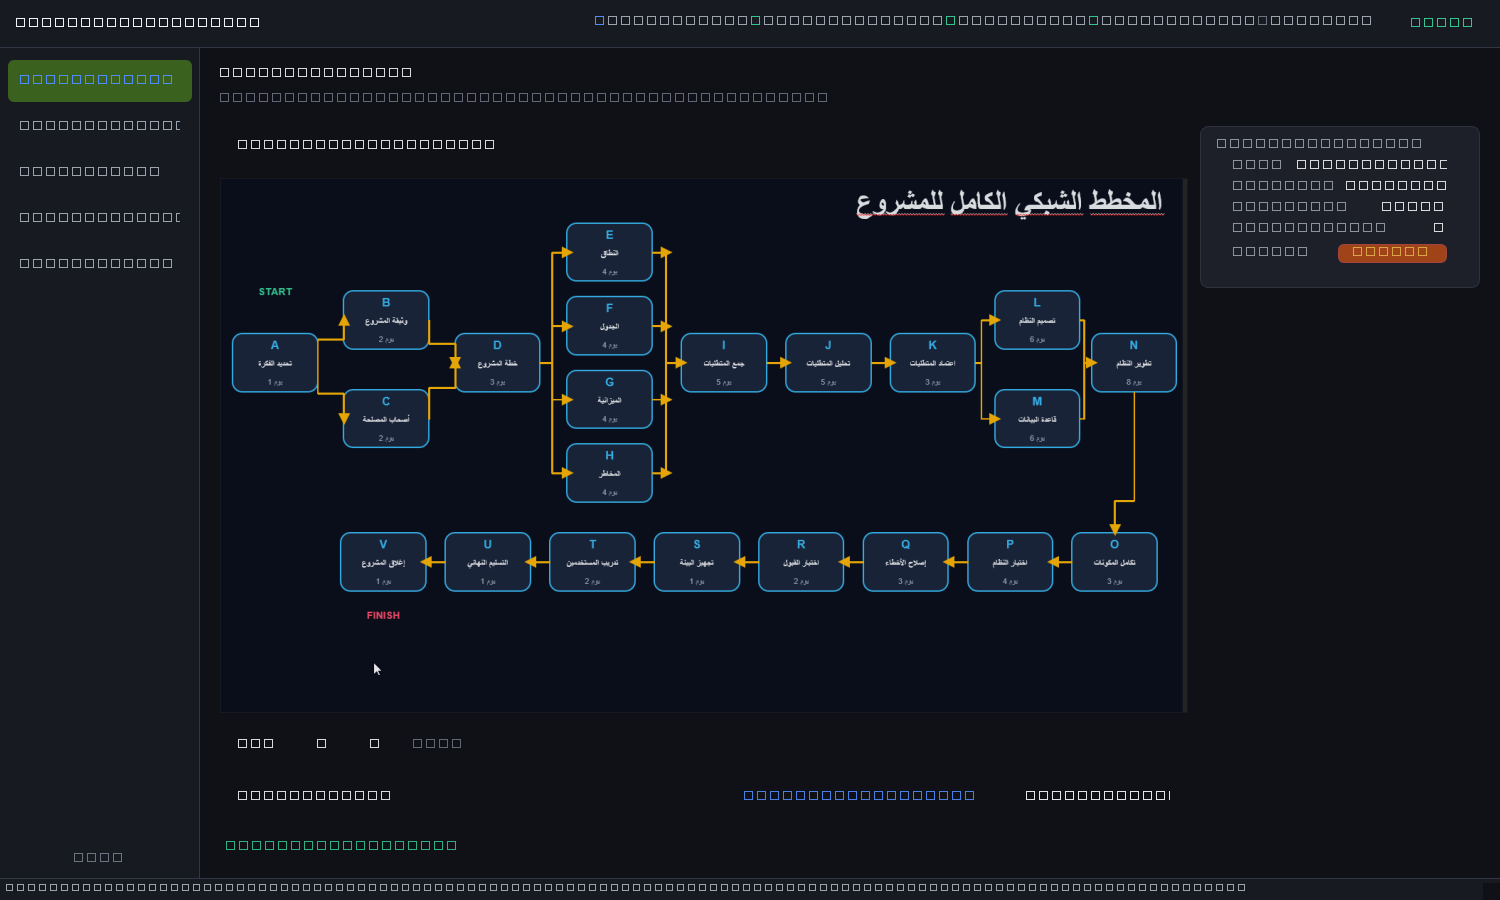
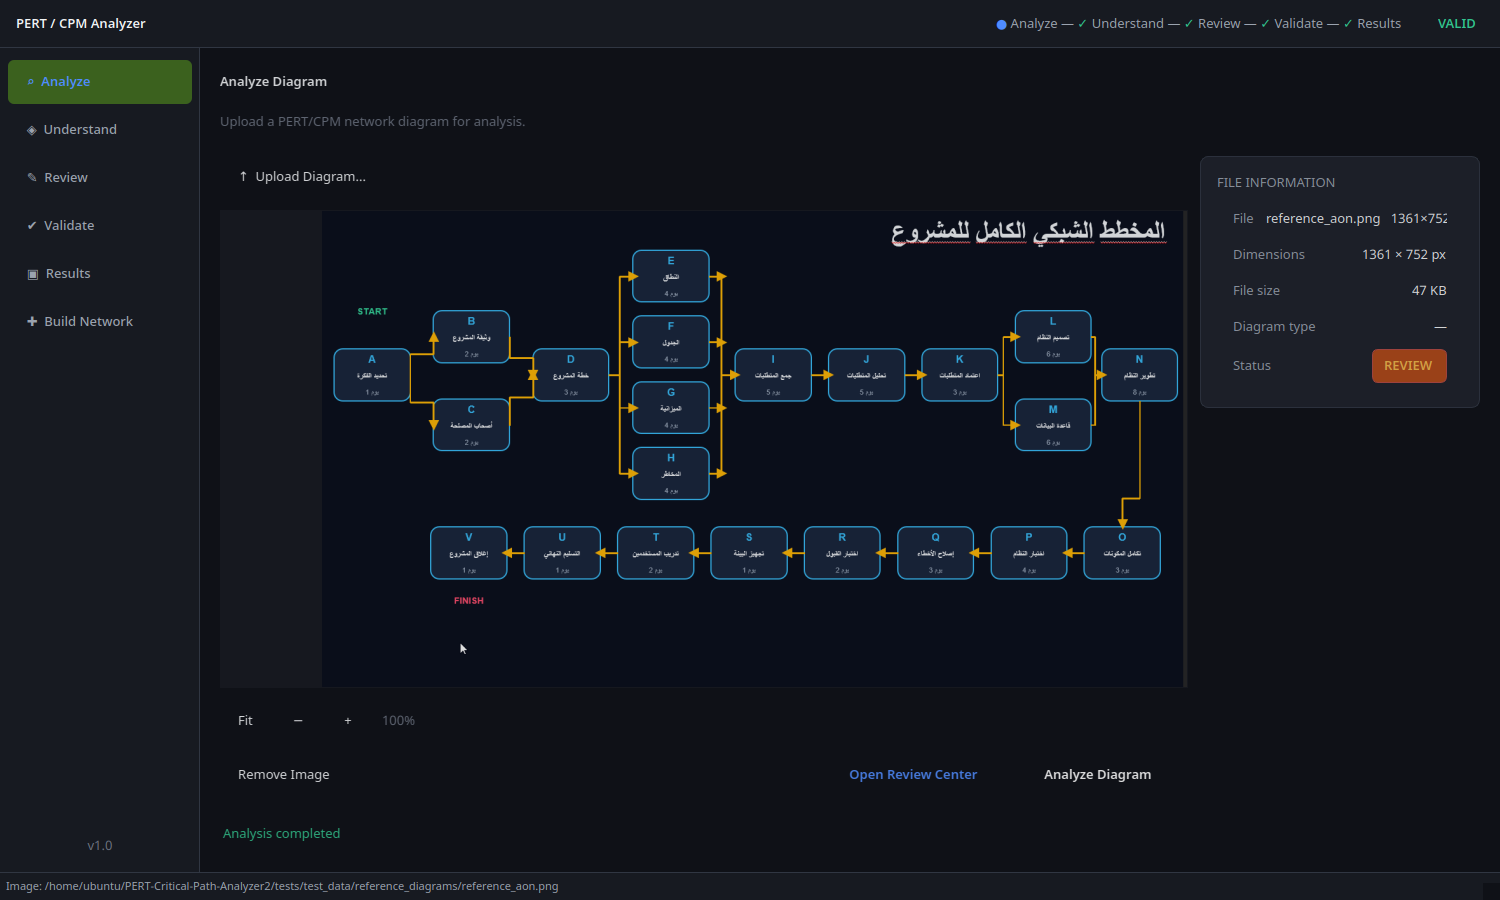
Stabilize analysis pipeline and polish results UX

diff --git a/scripts/capture_screenshots.py b/scripts/capture_screenshots.py
@@ -14,16 +14,15 @@ os.environ.setdefault("QT_QPA_PLATFORM", "offscreen")
 _ROOT = Path(__file__).resolve().parents[1]
 sys.path.insert(0, str(_ROOT))
 
-from PySide6.QtCore import Qt
 from PySide6.QtWidgets import QApplication
 
 from pert_analyzer.gui.main_window import MainWindow
 from pert_analyzer.gui.navigation import NavDestination
+from pert_analyzer.gui.session import AppState
 from pert_analyzer.gui.themes.style import apply_theme
 from tests.helpers.reference_gold import (
     REFERENCE_AON,
     build_corrected_session,
-    load_gold,
     run_reference_analysis,
 )
 
@@ -43,7 +42,6 @@ def _set_session_data(window: MainWindow) -> None:
     global _workflow
     print("Running reference analysis...")
     pipeline_result = run_reference_analysis()
-    gold = load_gold()
     session = build_corrected_session(pipeline_result, source_image_id=REFERENCE_AON.name)
 
     from pert_analyzer.pipeline.review_api import ReviewWorkflow
@@ -56,7 +54,13 @@ def _set_session_data(window: MainWindow) -> None:
     gui_session.reviews_dirty = False
 
     candidate = _workflow.apply()
-    gui_session.candidate = candidate
+    gui_session.complete_apply(candidate)
+    cpm_result = _workflow.run_cpm()
+    candidate.cpm = cpm_result
+    candidate.pure_critical_paths = [
+        list(path) for path in (getattr(cpm_result, "critical_paths", None) or [])
+    ]
+    gui_session.state = AppState.RESULTS_AVAILABLE
 
     window._refresh_pages()
     window._update_workflow_indicator()
@@ -73,6 +77,10 @@ def main() -> None:
     apply_theme(app)
     window = MainWindow()
     window.resize(1500, 900)
+    # Load the preview before injecting the completed session.  AnalysisPage
+    # emits image_selected_signal from load_image, which intentionally resets
+    # a live user session; doing it first keeps these screenshots truthful.
+    window._analysis_page.load_image(str(REFERENCE_AON))
 
     print("Setting up reference AON session...")
     _set_session_data(window)
@@ -84,7 +92,6 @@ def main() -> None:
     window._on_nav(NavDestination.ANALYZE)
     app.processEvents()
     analyze_page = window._analysis_page
-    analyze_page.load_image(str(REFERENCE_AON))
     app.processEvents()
     gui_sess = window._session
     summary = getattr(gui_sess, "review_summary", None) or {}

diff --git a/pert_analyzer/gui/pages/results_page.py b/pert_analyzer/gui/pages/results_page.py
@@ -286,6 +286,13 @@ class ResultsPage(QWidget):
         )
         layout.addWidget(self._status_banner)
 
+        self._provenance_label = QLabel("")
+        self._provenance_label.setFont(QFont(*MUTED_FONT))
+        self._provenance_label.setStyleSheet(
+            f"color: {TEXT_MUTED}; padding: 2px 4px;"
+        )
+        layout.addWidget(self._provenance_label)
+
         top = QHBoxLayout()
         top.setSpacing(10)
         header_stack = QVBoxLayout()
@@ -388,6 +395,7 @@ class ResultsPage(QWidget):
         }[reason]
         self._empty_label.setText(message)
         self._empty_label.show()
+        self._provenance_label.hide()
         self._set_calculate_visible(reason == RESULT_UNAVAILABLE)
         self._calculate_btn.setEnabled(reason == RESULT_UNAVAILABLE and not self._busy)
         self._set_readiness(reason)
@@ -518,6 +526,10 @@ class ResultsPage(QWidget):
 
         # Update status banner
         self._status_banner.show()
+        self._provenance_label.setText(
+            "Authoritative result  ·  reviewed graph  ·  CPM values are not recomputed in the UI"
+        )
+        self._provenance_label.show()
         self._status_icon.setText("\u2713")
         self._status_icon.setStyleSheet(f"color: {SUCCESS};")
         self._status_label.setText("FINAL RESULTS")

diff --git a/pert_analyzer/gui/results/network.py b/pert_analyzer/gui/results/network.py
@@ -36,6 +36,7 @@ from PySide6.QtWidgets import (
 
 from pert_analyzer.gui.results import layout as network_layout
 from pert_analyzer.gui.themes.style import NETWORK_COLORS
+from pert_analyzer.gui.themes.typography import FONT_FAMILY
 
 MIN_ZOOM = 0.2
 MAX_ZOOM = 5.0
@@ -133,7 +134,7 @@ class ActivityNodeItem(QGraphicsObject):
         text_y = self._rect.y() + 14
 
         painter.setPen(QPen(_color("node_text")))
-        title_font = QFont("Segoe UI", 10, QFont.Weight.Bold)
+        title_font = QFont(FONT_FAMILY, 10, QFont.Weight.Bold)
         painter.setFont(title_font)
         painter.drawText(
             QRectF(x + 6, text_y - 10, width - 12, 16),
@@ -141,7 +142,7 @@ class ActivityNodeItem(QGraphicsObject):
             self.activity_id,
         )
 
-        body_font = QFont("Segoe UI", 8)
+        body_font = QFont(FONT_FAMILY, 8)
         painter.setFont(body_font)
         painter.setPen(QPen(_color("node_text_muted")))
         line_y = self._rect.y() + 26

diff --git a/pert_analyzer/gui/themes/typography.py b/pert_analyzer/gui/themes/typography.py
@@ -10,7 +10,11 @@ from __future__ import annotations
 from PySide6.QtGui import QFont
 
 # ── Family ─────────────────────────────────────────────────────────
-FONT_FAMILY = "Segoe UI"
+# Noto Sans Arabic is available on Linux and supports Arabic shaping as well
+# as Latin text. Keeping one family here also makes QFont-based widgets and
+# the application-wide QSS render consistently instead of falling back to
+# Segoe UI (which is commonly unavailable outside Windows).
+FONT_FAMILY = "Noto Sans Arabic"
 
 # ── Named tuples: (family, size_px, weight) ────────────────────────
 DISPLAY_FONT = (FONT_FAMILY, 28, QFont.Weight.Bold)

diff --git a/pert_analyzer/gui/results/overview.py b/pert_analyzer/gui/results/overview.py
@@ -46,9 +46,12 @@ class KpiCard(QFrame):
     def __init__(self, title: str, parent: QWidget | None = None):
         super().__init__(parent)
         self.setFrameShape(QFrame.Shape.NoFrame)
+        self.setObjectName("kpiCard")
         self.setStyleSheet(
-            f"background-color: {SURFACE};"
-            f" border: 1px solid {BORDER}; border-radius: {RADIUS_LG}px;"
+            f"QFrame#kpiCard {{ background-color: {SURFACE};"
+            f" border: 1px solid {BORDER}; border-radius: {RADIUS_LG}px; }}"
+            f"QFrame#kpiCard:hover {{ background-color: {SURFACE};"
+            f" border-color: {ACCENT}; }}"
         )
         layout = QVBoxLayout(self)
         layout.setContentsMargins(12, 10, 12, 10)

diff --git a/pert_analyzer/cv/arrow_detection.py b/pert_analyzer/cv/arrow_detection.py
@@ -390,7 +390,14 @@ class ArrowDetector(ArrowDetectorABC):
             return segments
 
         for line in lines:
-            x1, y1, x2, y2 = line[0]
+            # OpenCV has returned both ``(N, 1, 4)`` and ``(N, 4)``
+            # layouts across versions. Flatten each result so the
+            # detector remains compatible with both forms.
+            coordinates = np.asarray(line).reshape(-1)
+            if coordinates.size < 4:
+                logger.debug("Ignoring malformed Hough line: %r", line)
+                continue
+            x1, y1, x2, y2 = coordinates[:4]
 
             start = Point(float(x1), float(y1))
             end = Point(float(x2), float(y2))

diff --git a/pert_analyzer/reporting/export/pdf.py b/pert_analyzer/reporting/export/pdf.py
@@ -55,10 +55,10 @@ def _register_fonts(pdf: Any, font_path: Optional[str]) -> bool:
     if font_path is None:
         return False
     try:
-        pdf.add_font("DejaVuSans", "", font_path, uni=True)
+        pdf.add_font("DejaVuSans", "", font_path)
         bold_path = _sibling_font(font_path, "Bold")
         if bold_path:
-            pdf.add_font("DejaVuSans", "B", bold_path, uni=True)
+            pdf.add_font("DejaVuSans", "B", bold_path)
         return True
     except Exception:
         return False

diff --git a/pert_analyzer/gui/pages/review_page.py b/pert_analyzer/gui/pages/review_page.py
@@ -70,9 +70,9 @@ from pert_analyzer.gui.themes.typography import (
 logger = logging.getLogger(__name__)
 
 _CATEGORY_LABELS = {
-    ReviewCategory.ACTIVITIES: "Activities",
-    ReviewCategory.DEPENDENCIES: "Dependencies",
-    ReviewCategory.DURATIONS: "Durations",
+    ReviewCategory.ACTIVITIES: "Activity reviews",
+    ReviewCategory.DEPENDENCIES: "Dependency reviews",
+    ReviewCategory.DURATIONS: "Duration reviews",
 }
 
 

diff --git a/pert_analyzer/gui/pages/analysis_page.py b/pert_analyzer/gui/pages/analysis_page.py
@@ -177,7 +177,8 @@ class ImageView(QLabel):
         self.update()
 
     def set_zoom(self, factor: float) -> None:
-        self._zoom_around(self.width() / 2, self.height() / 2, 1.0)
+        """Set an absolute zoom factor, clamped to the supported range."""
+        self._set_zoom_at(factor)
 
     def _set_zoom_at(self, factor: float) -> None:
         self._zoom = min(_MAX_ZOOM, max(1.0, float(factor)))

diff --git a/pert_analyzer/gui/main_window.py b/pert_analyzer/gui/main_window.py
@@ -180,6 +180,7 @@ class MainWindow(QMainWindow):
             btn.setCheckable(True)
             btn.setObjectName(f"nav_{item.key}")
             btn.setFont(QFont(*BUTTON_FONT))
+            btn.setToolTip(item.label)
             btn.setCursor(Qt.CursorShape.PointingHandCursor)
             btn.setStyleSheet(
                 f"QPushButton {{ text-align: left; padding: 8px {MD}px;"

diff --git a/tests/gui/test_phase72_ux.py b/tests/gui/test_phase72_ux.py
@@ -199,6 +199,9 @@ def test_image_view_zoom_in_out_and_reset(qapp: QApplication, tmp_path) -> None:
     assert view.is_zoomed
     assert view.zoom_factor > 1.0
 
+    view.set_zoom(3.0)
+    assert view.zoom_factor == 3.0
+
     before = view.zoom_factor
     view.zoom_out()
     assert view.zoom_factor < before

diff --git a/docs/PRE_PUSH_AUDIT_AR.md b/docs/PRE_PUSH_AUDIT_AR.md
@@ -1,0 +1,76 @@
+# مراجعة ما قبل النشر إلى GitHub
+
+## الخلاصة التنفيذية
+
+المشروع **جاهز وظيفيًا على مستوى النواة والسيناريو المرجعي**، لكنه ليس في أفضل نقطة ممكنة للنشر كإصدار نهائي من ناحية جودة الكود وتجربة المستخدم العامة. جميع الاختبارات الحالية ناجحة، وتم تشغيل سيناريو مرجعي كامل يتضمن التحليل، المراجعة، التحقق، وحساب CPM. لذلك لا توجد مشكلة تمنع إنشاء commit من ناحية الوظائف الأساسية.
+
+مع ذلك، أوصي قبل النشر بأن نعتبر التغيير الحالي **نسخة تجريبية مستقرة** لا إصدارًا نهائيًا مكتمل الصقل. السبب هو وجود دين تقني كبير في Ruff، وبعض صفحات الحالة الفارغة تحتاج تحسينًا بصريًا، كما أن دقة التحليل خارج مجموعة الصور المرجعية تحتاج benchmark أوسع قبل تقديم وعد بأن كل صورة ستنتج نتيجة صحيحة آليًا.
+
+## نتائج التحقق
+
+| المجال | النتيجة | التفسير |
+|---|---:|---|
+| الاختبارات الكاملة | 1431 ناجحًا، 1 متجاوز | لا يوجد فشل في الاختبارات الحالية |
+| اختبارات لوحة النتائج والشبكة وتجربة المستخدم | 65 ناجحًا | التفاعلات الحالية لا تكسر العقود المعروفة |
+| اختبارات لوحة النتائج والتنقل ونظام التصميم | 62 ناجحًا | التعديلات البصرية الأخيرة متوافقة |
+| سيناريو الصورة المرجعية | 22 نشاطًا، 28 علاقة، حالة تحقق VALID | دورة التحليل والمراجعة والتحقق تعمل على المرجع |
+| النتائج المرجعية | مدة 54 يومًا، 16 مسارًا حرجًا، 22 نشاطًا حرجًا | ظهرت في لوحة النتائج بعد تشغيل CPM فعليًا |
+| فحص diff | ناجح | لا توجد أخطاء whitespace في التغييرات الحالية |
+| Ruff | 3077 مخالفة | معظمها دين تقني قديم، وCI يسمح له بالفشل مؤقتًا |
+
+## ما تم اكتشافه وإصلاحه أثناء المراجعة
+
+كانت أداة التقاط لقطات الواجهة تجهز جلسة مرجعية مكتملة، ثم تستدعي `AnalysisPage.load_image()` بعد ذلك. هذه الدالة تطلق إشارة اختيار صورة تعيد ضبط جلسة المستخدم عمدًا، ولذلك كانت لقطات المراجعة والتحقق والنتائج تظهر كأنها فارغة. تم تصحيح ترتيب الخطوات، وأصبحت اللقطات تعرض دورة مكتملة وحقيقية بدل حالات فارغة مضللة.
+
+كما تم توضيح تسميات مركز المراجعة. العدد `51` في لقطة المراجعة هو عدد **عناصر مراجعة العلاقات**، وليس عدد العلاقات في الرسم النهائي الذي يساوي `28`. لذلك أصبحت التسميات تشير إلى `Dependency reviews` و`Activity reviews` و`Duration reviews` لتجنب تفسير الأرقام على أنها عدد عناصر الرسم.
+
+## حالة الواجهات
+
+صفحة التحليل عملية وواضحة، وتعرض الصورة مع معلومات الملف والتكبير وحالة التحليل. الخط العربي أصبح مقروءًا، كما أن حالة المراجعة ظاهرة بصورة صحيحة.
+
+مركز المراجعة يعمل وظيفيًا، ويعرض حالة اكتمال المراجعات حسب الفئة. لكنه ما زال بصريًا هادئًا أكثر من اللازم عند اكتمال المراجعة؛ المساحة الكبيرة الفارغة يمكن استثمارها في عرض ملخص بصري وعدد قرارات القبول والتصحيح والرفض وزر انتقال أوضح إلى التحقق.
+
+صفحة النتائج أصبحت تعرض الحالة النهائية، ومصدر الأرقام، والبطاقات، والشبكة، والتبويبات. الشبكة نفسها تعمل، لكن وضع `Fit to view` يجعل الرسم صغيرًا نسبيًا عندما يحتوي المشروع على عدد كبير من العناصر. التحسين المقترح هو اختيار zoom ابتدائي يعتمد على أبعاد الشبكة، مع زر يركز تلقائيًا على المسار الحرج.
+
+حالات عدم الجاهزية صحيحة من ناحية المنطق، لكنها منخفضة التباين بصريًا. يجب رفع وضوح العنوان والسبب والزر في حالات عدم وجود مشروع أو الحاجة إلى المراجعة أو فشل التحقق، لأن المستخدم يحتاج أن يعرف الخطوة التالية فورًا.
+
+## ما يحتاجه المشروع قبل اعتباره إصدارًا نهائيًا
+
+### أولوية عالية: جودة التحليل خارج المرجع
+
+الاختبارات تثبت صحة السيناريو المرجعي، لكنها لا تثبت أن كل أنواع مخططات PERT وCPM الواقعية ستنتج نتيجة صحيحة تلقائيًا. يجب توسيع benchmark ليشمل صورًا مختلفة في الاتجاه، جودة الخط، اللغة، التداخلات، الأسهم العمودية، والعلاقات المتفرعة. يجب قياس دقة الأنشطة والعلاقات والمدد والمسار الحرج بشكل منفصل.
+
+### أولوية عالية: منع التباس الأرقام
+
+يجب إبقاء الفرق واضحًا بين عدد عناصر الرسم، وعدد عناصر المراجعة، وعدد التصحيحات. تم إصلاح التسميات في مركز المراجعة، لكن هذا المبدأ يجب تطبيقه كذلك في التقارير والتصدير وملخصات التحليل.
+
+### أولوية متوسطة: صقل الحالات الفارغة
+
+الحالات الفارغة ليست عطلًا، لكنها تحتاج تصميمًا أقوى. ينبغي أن تحتوي كل حالة على عنوان واضح، سبب مختصر، خطوة تالية واحدة، وإشارة حالة ذات تباين مناسب. هذا مهم خصوصًا في Review وValidate وResults.
+
+### أولوية متوسطة: دين Ruff
+
+هناك 3077 مخالفة Ruff، وأكثر من 2654 منها قابلة للإصلاح الآلي وفق أداة Ruff. هذه المخالفات لا تعني أن التحليل خاطئ، لكنها تجعل مراجعة التغييرات المستقبلية أصعب. الأفضل تقسيم تنظيف Ruff إلى commits مستقلة حتى لا تختلط إعادة التنسيق مع إصلاحات السلوك.
+
+### أولوية منخفضة: تحسين الشبكة
+
+الشبكة قابلة للقراءة والتفاعل، لكن يمكن جعلها أكثر فخامة بتكبير أولي ذكي، وتركيز تلقائي على المسار الحرج، ولوحة تفاصيل صغيرة عند اختيار النشاط بدل الاعتماد على tooltip فقط.
+
+## قرار النشر المقترح
+
+إذا كان الهدف هو حفظ نسخة آمنة من العمل الحالي، يمكن إنشاء commit الآن بعد تشغيل الاختبارات المستهدفة الأخيرة. أما إذا كان الهدف هو إعلان إصدار نهائي للمستخدمين، فأوصي بتأجيل النشر حتى نكمل benchmark العام وصقل الحالات الفارغة وتحسين تكبير الشبكة.
+
+القرار الأكثر اتزانًا هو نشر التغييرات في commit واضح باعتبارها **stabilization and UX review baseline**، ثم تنفيذ تحسينات الدقة العامة في commit مستقل يمكن قياسه ومراجعته بسهولة.
+
+## الملفات المرجعية
+
+- [لقطة مركز المراجعة بعد اكتمال المراجعة](ui_review/final/03_review.png)
+- [لقطة لوحة النتائج النهائية](ui_review/final/05_results_overview.png)
+- [لقطة شبكة النتائج](ui_review/final/07_results_network.png)
+- [أداة التقاط اللقطات المرجعية](../scripts/capture_screenshots.py)
+
+## References
+
+[1]: https://github.com/A-K69/PERT-Critical-Path-Analyzer2 "PERT & Critical Path Analyzer repository"
+[2]: https://docs.astral.sh/ruff/ "Ruff documentation"
+
